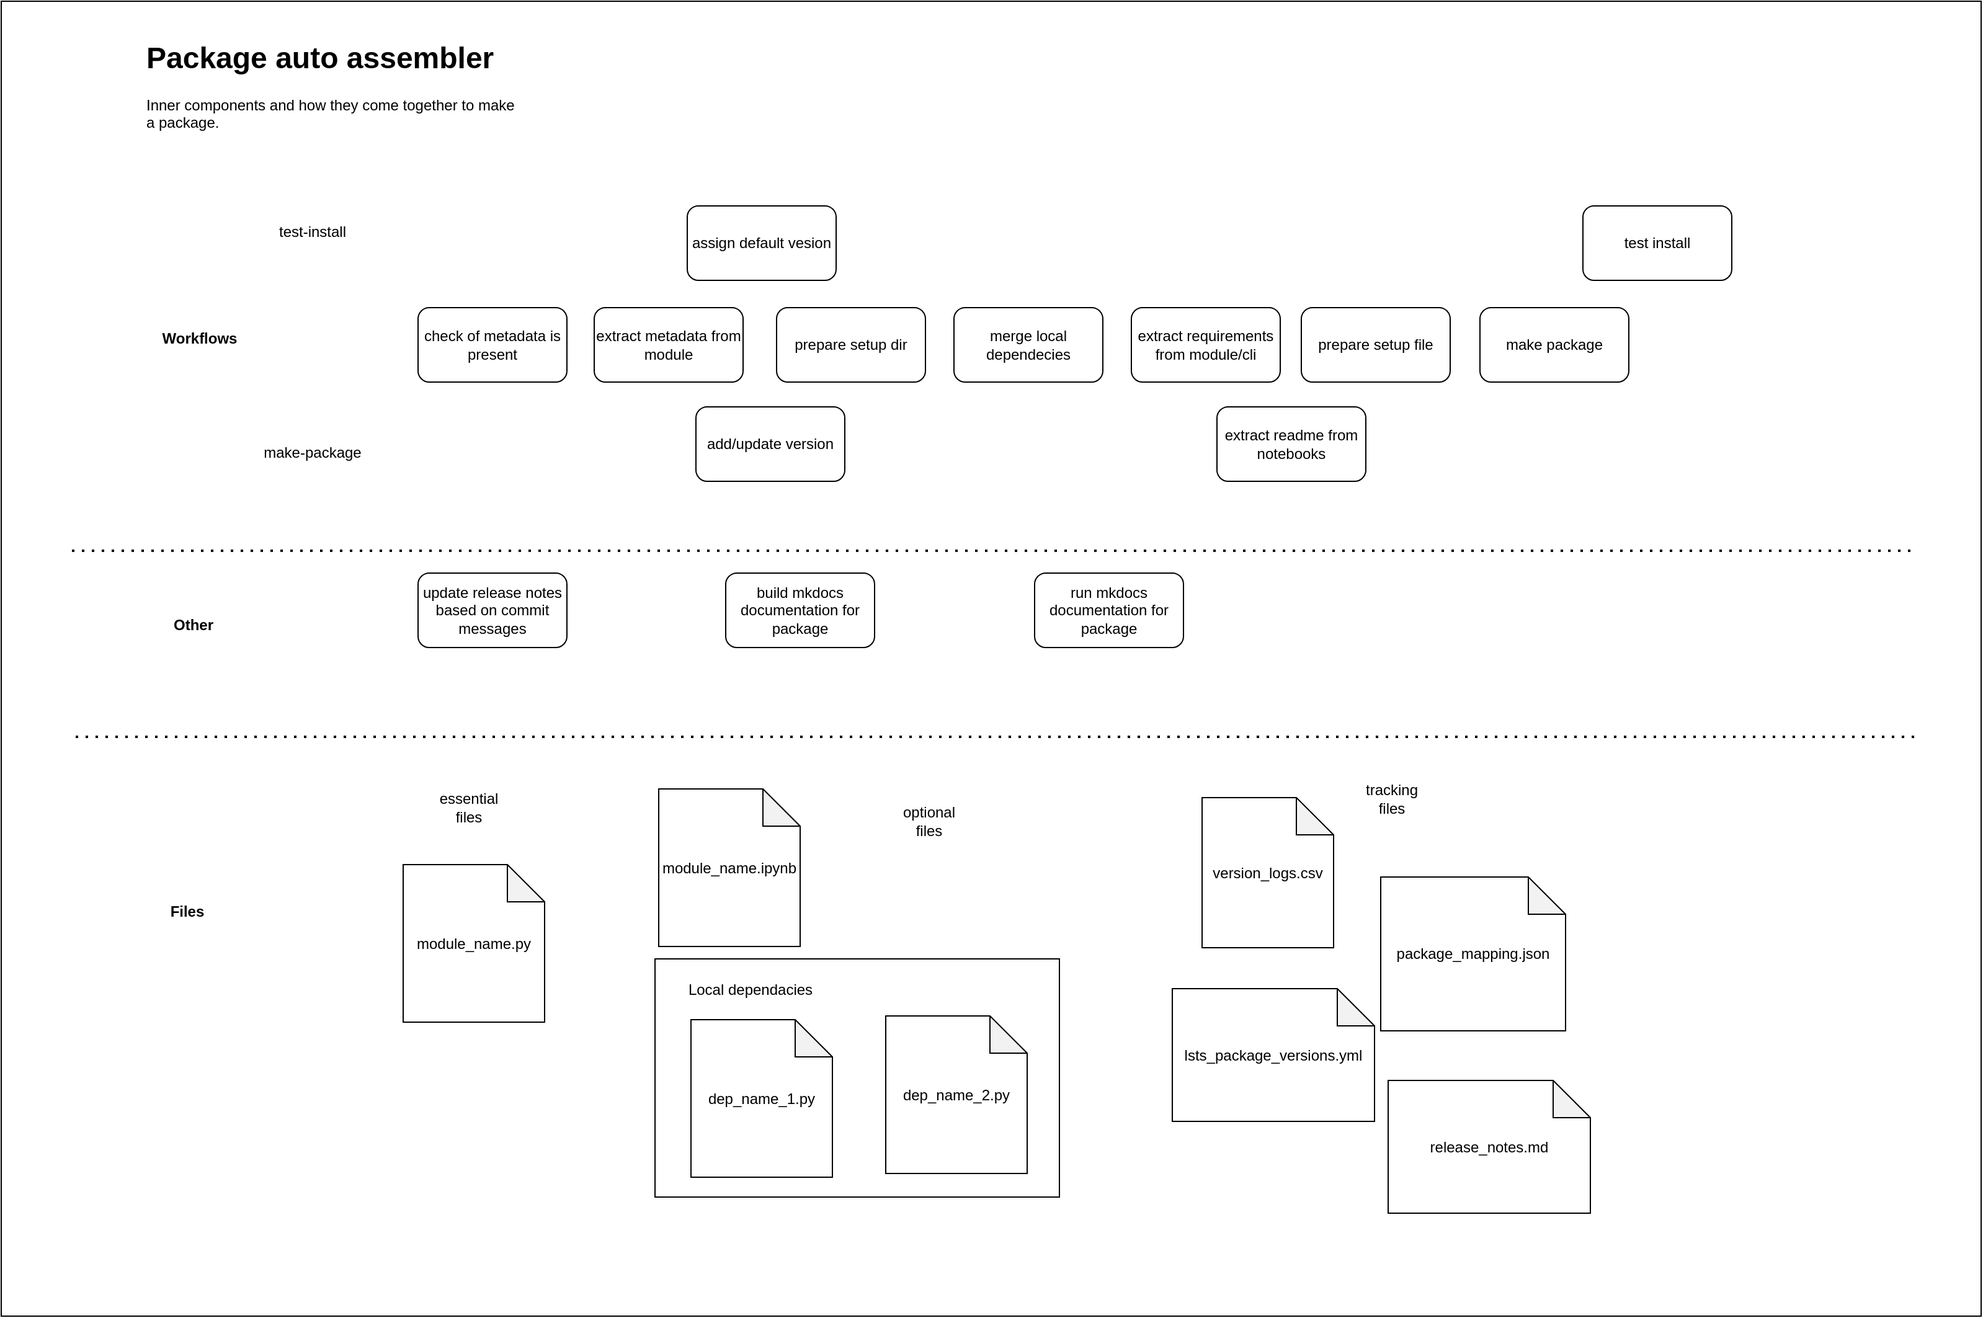
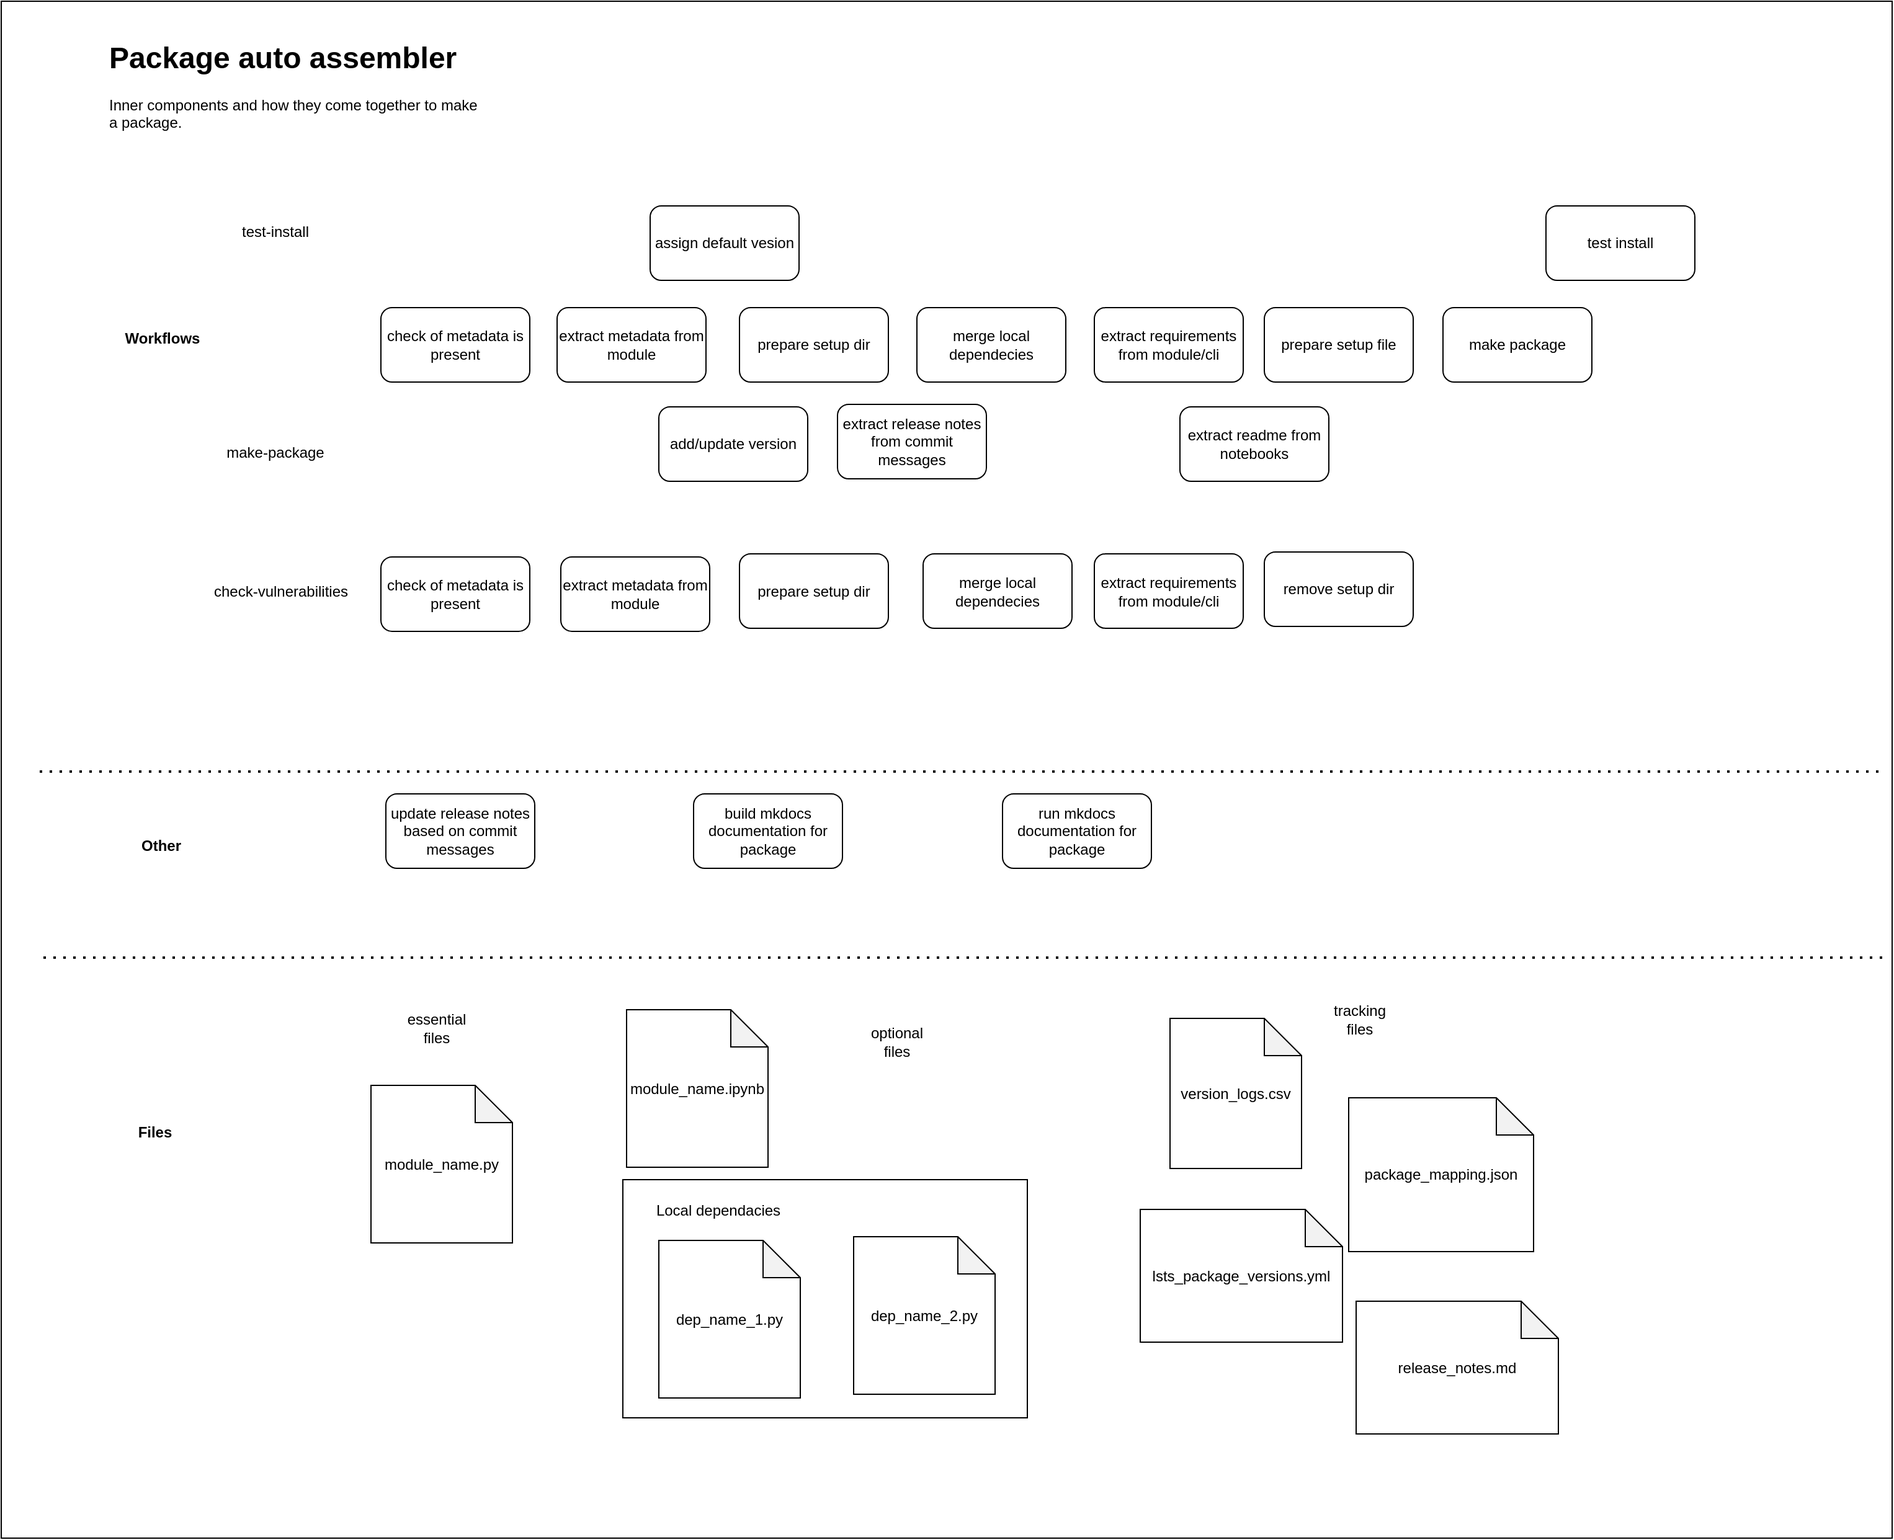
Update README

diff --git a/docs/package_auto_assembler.md b/docs/package_auto_assembler.md
@@ -694,7 +694,147 @@ sdh.write_setup_file(
 )
 ```
 
-### 8. Making a package
+### 8. Creating release notes from commit messages
+
+
+```python
+rnh = ReleaseNotesHandler(
+    # path to existing or new release notes file
+    filepath = '../tests/package_auto_assembler/release_notes.md',
+    # name of label in commit message [example_module] for filter
+    label_name = 'example_module',
+    # new version to be used in release notes
+    version = '0.0.1'
+)
+```
+
+    No release notes were found in ../tests/package_auto_assembler/release_notes.md, new will be initialized!
+    No relevant commit messages found!
+    ..trying depth 2 !
+    No relevant commit messages found!
+    No messages to clean were provided
+
+
+##### - overwritting commit messages from example
+
+
+```python
+# commit messages from last merge
+rnh.commit_messages
+```
+
+
+    ['fix to paa tests',
+     '[package_auto_assembler] check-vulnerabilities with cli',
+     '[mocker_db] initital cli interface that allows to clone code from api version of mocker and run it',
+     '[package_auto_assembler] fixes to requirements extraction from import .. as .. pattern',
+     'Update package version tracking files',
+     'Update requirements',
+     '[comparisonframe] initial version',
+     'preparing initial comparisonframe for packaging',
+     'Update package version tracking files',
+     'Update README',
+     'Update requirements']
+
+
+
+```python
+example_commit_messages = [
+    '[example_module] usage example for initial release notes; bugfixes for RNH',
+    '[BUGFIX] missing parameterframe usage example and reduntant png file',
+    '[example_module][0.1.2] initial release notes handler',
+    'Update README',
+    'Update requirements'
+]
+rnh.commit_messages = example_commit_messages
+```
+
+##### - internal methods that run on intialiazation of ReleaseNotesHandler
+
+
+```python
+# get messages relevant only for label
+rnh._filter_commit_messages_by_package()
+print("Example filtered_messaged:")
+print(rnh.filtered_messages)
+
+# clean messages
+rnh._clean_and_split_commit_messages()
+print("Example processed_messages:")
+print(rnh.processed_messages)
+```
+
+    Example filtered_messaged:
+    ['[example_module] usage example for initial release notes; bugfixes for RNH', '[example_module][0.1.2] initial release notes handler']
+    Example processed_messages:
+    ['usage example for initial release notes', 'bugfixes for RNH', 'initial release notes handler']
+
+
+##### - get version update from relevant messages
+
+
+```python
+version_update = rnh.extract_version_update()
+print(f"Example version_update: {version_update}")
+```
+
+    Example version_update: 0.1.2
+
+
+##### - augment existing release note with new entries or create new
+
+
+```python
+# augment existing release note with new entries or create new
+rnh.create_release_note_entry(
+    # optional
+    existing_contents=rnh.existing_contents,
+    version=rnh.version,
+    new_messages=rnh.processed_messages
+)
+print("Example processed_note_entries:")
+print(rnh.processed_note_entries)
+```
+
+    Example processed_note_entries:
+    ['# Release notes\n', '\n', '### 0.1.2\n', '\n', '    - usage example for initial release notes\n', '\n', '    - bugfixes for RNH\n', '\n', '    - initial release notes handler\n']
+
+
+##### - saving updated relese notes
+
+
+```python
+rnh.existing_contents
+```
+
+
+    ['# Release notes\n']
+
+
+
+```python
+rnh.save_release_notes()
+```
+
+
+```python
+# updated content
+rnh.get_release_notes_content()
+```
+
+
+    ['# Release notes\n',
+     '\n',
+     '### 0.1.2\n',
+     '\n',
+     '    - usage example for initial release notes\n',
+     '\n',
+     '    - bugfixes for RNH\n',
+     '\n',
+     '    - initial release notes handler\n']
+
+
+### 9. Making a package
 
 #### Initializing PackageAutoAssembler
 
@@ -711,6 +851,7 @@ paa = PackageAutoAssembler(
     versions_filepath = '../tests/package_auto_assembler/lsts_package_versions.yml',
     log_filepath = '../tests/package_auto_assembler/version_logs.csv',
     setup_directory = "./example_module",
+    release_notes_filepath = "../tests/package_auto_assembler/release_notes.md",
     classifiers = ['Development Status :: 3 - Alpha',
                     'Intended Audience :: Developers',
                     'Intended Audience :: Science/Research',
@@ -740,19 +881,40 @@ paa.add_metadata_from_module(
 )
 ```
 
+    Adding metadata ...
+
+
 #### Add or update version
 
 
 ```python
 paa.add_or_update_version(
+    # overwrites auto mode (not suggested)
+    version_increment_type = "patch",
+    version = "1.2.6",
     # optional
     module_name = "example_module",
-    version_increment_type = "patch",
-    version = "0.0.1",
     versions_filepath = '../tests/package_auto_assembler/lsts_package_versions.yml',
     log_filepath = '../tests/package_auto_assembler/version_logs.csv'
 )
 ```
+
+    Incrementing version ...
+
+
+#### Add release notes from commit messages
+
+
+```python
+paa.add_or_update_release_notes(
+    # optional
+    filepath="../tests/package_auto_assembler/release_notes.md",
+    version=paa.metadata['version']
+)
+```
+
+    Updating release notes ...
+
 
 #### Prepare setup directory
 
@@ -760,6 +922,9 @@ paa.add_or_update_version(
 ```python
 paa.prep_setup_dir()
 ```
+
+    Preparing setup directory ...
+
 
 #### Merge local dependacies
 
@@ -772,6 +937,9 @@ paa.merge_local_dependacies(
     save_filepath = "./example_module/example_module.py"
 )
 ```
+
+    Merging ../tests/package_auto_assembler/example_module.py with dependecies from ../tests/package_auto_assembler/dependancies/ into ./example_module/example_module.py
+
 
 #### Add requirements from module
 
@@ -795,6 +963,7 @@ paa.add_requirements_from_module(
 )
 ```
 
+    Adding requirements from ../tests/package_auto_assembler/example_module.py
     No known vulnerabilities found
     
 
@@ -826,6 +995,9 @@ paa.add_readme(
 )
 ```
 
+    Adding README from ../tests/package_auto_assembler/example_module.ipynb to ./example_module/README.md
+
+
 #### Prepare setup file
 
 
@@ -852,6 +1024,9 @@ paa.prep_setup_file(
 )
 ```
 
+    Preparing setup file for None package ...
+
+
 #### Make package
 
 
@@ -862,135 +1037,13 @@ paa.make_package(
 )
 ```
 
-
-
-
-    CompletedProcess(args=['python', './example_module/setup.py', 'sdist', 'bdist_wheel'], returncode=0, stdout="running sdist\nrunning egg_info\nwriting example_module.egg-info/PKG-INFO\nwriting dependency_links to example_module.egg-info/dependency_links.txt\nwriting entry points to example_module.egg-info/entry_points.txt\nwriting requirements to example_module.egg-info/requires.txt\nwriting top-level names to example_module.egg-info/top_level.txt\nreading manifest file 'example_module.egg-info/SOURCES.txt'\nwriting manifest file 'example_module.egg-info/SOURCES.txt'\nrunning check\ncreating example_module-0.0.1\ncreating example_module-0.0.1/example_module\ncreating example_module-0.0.1/example_module.egg-info\ncopying files to example_module-0.0.1...\ncopying example_module/__init__.py -> example_module-0.0.1/example_module\ncopying example_module/cli.py -> example_module-0.0.1/example_module\ncopying example_module/example_module.py -> example_module-0.0.1/example_module\ncopying example_module/setup.py -> example_module-0.0.1/example_module\ncopying example_module.egg-info/PKG-INFO -> example_module-0.0.1/example_module.egg-info\ncopying example_module.egg-info/SOURCES.txt -> example_module-0.0.1/example_module.egg-info\ncopying example_module.egg-info/dependency_links.txt -> example_module-0.0.1/example_module.egg-info\ncopying example_module.egg-info/entry_points.txt -> example_module-0.0.1/example_module.egg-info\ncopying example_module.egg-info/requires.txt -> example_module-0.0.1/example_module.egg-info\ncopying example_module.egg-info/top_level.txt -> example_module-0.0.1/example_module.egg-info\ncopying example_module.egg-info/SOURCES.txt -> example_module-0.0.1/example_module.egg-info\nWriting example_module-0.0.1/setup.cfg\ncreating dist\nCreating tar archive\nremoving 'example_module-0.0.1' (and everything under it)\nrunning bdist_wheel\nrunning build\nrunning build_py\ncopying example_module/example_module.py -> build/lib/example_module\ncopying example_module/__init__.py -> build/lib/example_module\ncopying example_module/setup.py -> build/lib/example_module\ncopying example_module/cli.py -> build/lib/example_module\ninstalling to build/bdist.macosx-10.9-x86_64/wheel\nrunning install\nrunning install_lib\ncreating build/bdist.macosx-10.9-x86_64/wheel\ncreating build/bdist.macosx-10.9-x86_64/wheel/example_module\ncopying build/lib/example_module/example_module.py -> build/bdist.macosx-10.9-x86_64/wheel/example_module\ncopying build/lib/example_module/__init__.py -> build/bdist.macosx-10.9-x86_64/wheel/example_module\ncopying build/lib/example_module/setup.py -> build/bdist.macosx-10.9-x86_64/wheel/example_module\ncopying build/lib/example_module/cli.py -> build/bdist.macosx-10.9-x86_64/wheel/example_module\nrunning install_egg_info\nCopying example_module.egg-info to build/bdist.macosx-10.9-x86_64/wheel/example_module-0.0.1-py3.9.egg-info\nrunning install_scripts\ncreating build/bdist.macosx-10.9-x86_64/wheel/example_module-0.0.1.dist-info/WHEEL\ncreating 'dist/example_module-0.0.1-py3-none-any.whl' and adding 'build/bdist.macosx-10.9-x86_64/wheel' to it\nadding 'example_module/__init__.py'\nadding 'example_module/cli.py'\nadding 'example_module/example_module.py'\nadding 'example_module/setup.py'\nadding 'example_module-0.0.1.dist-info/METADATA'\nadding 'example_module-0.0.1.dist-info/WHEEL'\nadding 'example_module-0.0.1.dist-info/entry_points.txt'\nadding 'example_module-0.0.1.dist-info/top_level.txt'\nadding 'example_module-0.0.1.dist-info/RECORD'\nremoving build/bdist.macosx-10.9-x86_64/wheel\n", stderr='warning: sdist: standard file not found: should have one of README, README.rst, README.txt, README.md\n\n/Users/insani_dei/miniconda3/envs/testenv/lib/python3.9/site-packages/setuptools/_distutils/cmd.py:66: SetuptoolsDeprecationWarning: setup.py install is deprecated.\n!!\n\n        ********************************************************************************\n        Please avoid running ``setup.py`` directly.\n        Instead, use pypa/build, pypa/installer or other\n        standards-based tools.\n\n        See https://blog.ganssle.io/articles/2021/10/setup-py-deprecated.html for details.\n        ********************************************************************************\n\n!!\n  self.initialize_options()\n')
-
-
-
-### 9. Creating release notes from commit messages
-
-
-```python
-rnh = ReleaseNotesHandler(
-    # path to existing or new release notes file
-    filepath = '../tests/package_auto_assembler/release_notes.md',
-    # name of label in commit message [example_module] for filter
-    label_name = 'example_module',
-    # new version to be used in release notes
-    version = '0.0.2'
-)
-```
-
-    No relevant commit messages found!
-    ..trying depth 2 !
-    No relevant commit messages found!
-    No messages to clean were provided
-
-
-##### - overwritting commit messages from example
-
-
-```python
-# commit messages from last merge
-rnh.commit_messages
-```
+    Making package from ./example_module ...
 
 
 
 
-    ['slight changes to gh-pages workflow',
-     'adding package_auto_assembler to usage examples test run exceptions',
-     'updated gh-pages workflow',
-     'testing newer MkDocsHandler',
-     'updated workflows',
-     'package name parameter for gh-pages workflow']
 
-
-
-
-```python
-example_commit_messages = [
-    '[example_module] usage example for initial release notes; bugfixes for RNH',
-    '[BUGFIX] missing parameterframe usage example and reduntant png file',
-    '[example_module] initial release notes handler',
-    'Update README',
-    'Update requirements'
-]
-rnh.commit_messages = example_commit_messages
-```
-
-##### - internal methods that run on intialiazation of ReleaseNotesHandler
-
-
-```python
-# get messages relevant only for label
-rnh._filter_commit_messages_by_package()
-print("Example filtered_messaged:")
-print(rnh.filtered_messages)
-# clean messages
-rnh._clean_and_split_commit_messages()
-print("Example processed_messages:")
-print(rnh.processed_messages)
-# augment existing release note with new entries or create new
-rnh._create_release_note_entry()
-print("Example processed_note_entries:")
-print(rnh.processed_note_entries)
-```
-
-    Example filtered_messaged:
-    ['[example_module] usage example for initial release notes; bugfixes for RNH', '[example_module] initial release notes handler']
-    Example processed_messages:
-    ['usage example for initial release notes', 'bugfixes for RNH', 'initial release notes handler']
-    Example processed_note_entries:
-    ['# Release notes\n', '\n', '### 0.0.2\n', '\n', '    - usage example for initial release notes\n', '\n', '    - bugfixes for RNH\n', '\n', '    - initial release notes handler\n', '\n', '### 0.0.1\n', '\n', '    - initial version of example_module\n']
-
-
-##### - saving updated relese notes
-
-
-```python
-rnh.existing_contents
-```
-
-
-
-
-    ['# Release notes\n',
-     '\n',
-     '### 0.0.1\n',
-     '    - initial version of example_module\n']
-
-
-
-
-```python
-rnh.save_release_notes()
-```
-
-
-```python
-# updated content
-rnh.get_release_notes_content()
-```
-
-
-
-
-    ['# Release notes\n',
-     '\n',
-     '### 0.0.2\n',
-     '\n',
-     '    - usage example for initial release notes\n',
-     '\n',
-     '    - bugfixes for RNH\n',
-     '\n',
-     '    - initial release notes handler\n',
-     '\n',
-     '### 0.0.1\n',
-     '\n',
-     '    - initial version of example_module\n']
+    CompletedProcess(args=['python', './example_module/setup.py', 'sdist', 'bdist_wheel'], returncode=0, stdout="running sdist\nrunning egg_info\ncreating example_module.egg-info\nwriting example_module.egg-info/PKG-INFO\nwriting dependency_links to example_module.egg-info/dependency_links.txt\nwriting entry points to example_module.egg-info/entry_points.txt\nwriting requirements to example_module.egg-info/requires.txt\nwriting top-level names to example_module.egg-info/top_level.txt\nwriting manifest file 'example_module.egg-info/SOURCES.txt'\nreading manifest file 'example_module.egg-info/SOURCES.txt'\nwriting manifest file 'example_module.egg-info/SOURCES.txt'\nrunning check\ncreating example_module-0.0.1\ncreating example_module-0.0.1/example_module\ncreating example_module-0.0.1/example_module.egg-info\ncopying files to example_module-0.0.1...\ncopying example_module/__init__.py -> example_module-0.0.1/example_module\ncopying example_module/cli.py -> example_module-0.0.1/example_module\ncopying example_module/example_module.py -> example_module-0.0.1/example_module\ncopying example_module/setup.py -> example_module-0.0.1/example_module\ncopying example_module.egg-info/PKG-INFO -> example_module-0.0.1/example_module.egg-info\ncopying example_module.egg-info/SOURCES.txt -> example_module-0.0.1/example_module.egg-info\ncopying example_module.egg-info/dependency_links.txt -> example_module-0.0.1/example_module.egg-info\ncopying example_module.egg-info/entry_points.txt -> example_module-0.0.1/example_module.egg-info\ncopying example_module.egg-info/requires.txt -> example_module-0.0.1/example_module.egg-info\ncopying example_module.egg-info/top_level.txt -> example_module-0.0.1/example_module.egg-info\nWriting example_module-0.0.1/setup.cfg\ncreating dist\nCreating tar archive\nremoving 'example_module-0.0.1' (and everything under it)\nrunning bdist_wheel\nrunning build\nrunning build_py\ncreating build\ncreating build/lib\ncreating build/lib/example_module\ncopying example_module/example_module.py -> build/lib/example_module\ncopying example_module/__init__.py -> build/lib/example_module\ncopying example_module/setup.py -> build/lib/example_module\ncopying example_module/cli.py -> build/lib/example_module\ninstalling to build/bdist.macosx-10.9-x86_64/wheel\nrunning install\nrunning install_lib\ncreating build/bdist.macosx-10.9-x86_64\ncreating build/bdist.macosx-10.9-x86_64/wheel\ncreating build/bdist.macosx-10.9-x86_64/wheel/example_module\ncopying build/lib/example_module/example_module.py -> build/bdist.macosx-10.9-x86_64/wheel/example_module\ncopying build/lib/example_module/__init__.py -> build/bdist.macosx-10.9-x86_64/wheel/example_module\ncopying build/lib/example_module/setup.py -> build/bdist.macosx-10.9-x86_64/wheel/example_module\ncopying build/lib/example_module/cli.py -> build/bdist.macosx-10.9-x86_64/wheel/example_module\nrunning install_egg_info\nCopying example_module.egg-info to build/bdist.macosx-10.9-x86_64/wheel/example_module-0.0.1-py3.9.egg-info\nrunning install_scripts\ncreating build/bdist.macosx-10.9-x86_64/wheel/example_module-0.0.1.dist-info/WHEEL\ncreating 'dist/example_module-0.0.1-py3-none-any.whl' and adding 'build/bdist.macosx-10.9-x86_64/wheel' to it\nadding 'example_module/__init__.py'\nadding 'example_module/cli.py'\nadding 'example_module/example_module.py'\nadding 'example_module/setup.py'\nadding 'example_module-0.0.1.dist-info/METADATA'\nadding 'example_module-0.0.1.dist-info/WHEEL'\nadding 'example_module-0.0.1.dist-info/entry_points.txt'\nadding 'example_module-0.0.1.dist-info/top_level.txt'\nadding 'example_module-0.0.1.dist-info/RECORD'\nremoving build/bdist.macosx-10.9-x86_64/wheel\n", stderr='warning: sdist: standard file not found: should have one of README, README.rst, README.txt, README.md\n\n/Users/insani_dei/miniconda3/envs/testenv/lib/python3.9/site-packages/setuptools/command/install.py:34: SetuptoolsDeprecationWarning: setup.py install is deprecated. Use build and pip and other standards-based tools.\n  warnings.warn(\n')
 
 
 
